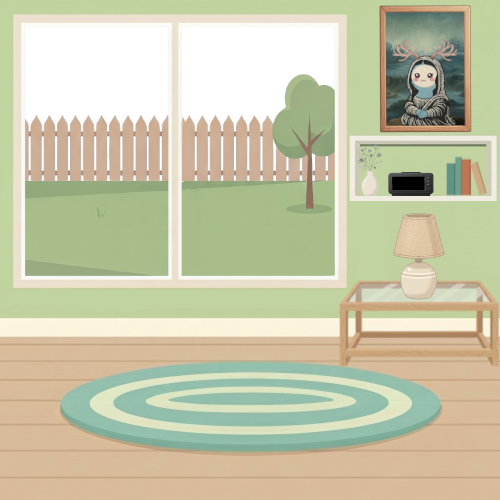
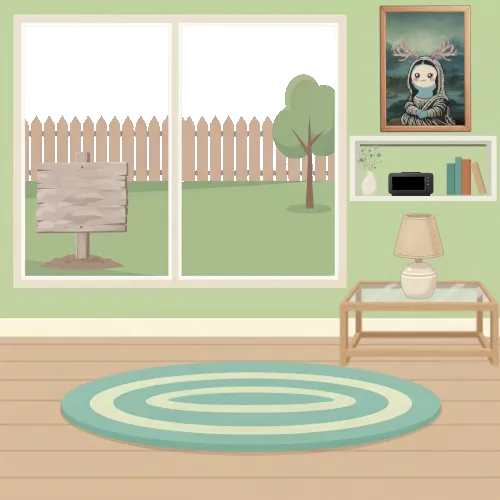
update nginx and photo quality

Changed region(s): [[0.06, 0.27, 0.3, 0.54], [0.48, 0.27, 0.54, 0.36], [0.57, 0.33, 0.6, 0.36]]

diff --git a/frontend/src/scripts/constants.js b/frontend/src/scripts/constants.js
@@ -1,1 +1,1 @@
-export const APP_VERSION = '1.1.3'
+export const APP_VERSION = '1.1.4'
